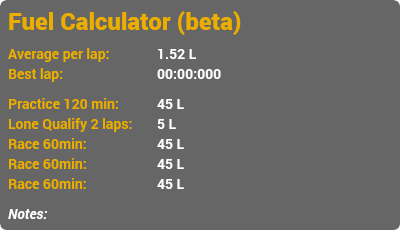
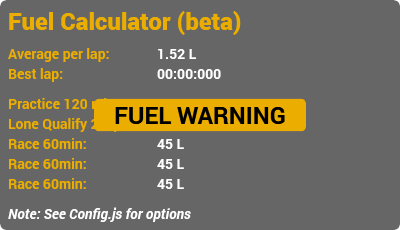
Added a pre-race Fuel Warning when setup is under-fueled

Changed region(s): [[0.21, 0.4261, 0.78, 0.5783], [0.09, 0.913, 0.48, 0.9739]]

diff --git a/Overlays/benofficial2 - iRacing Fuel Calculator/JavascriptExtensions/FuelCalc.js b/Overlays/benofficial2 - iRacing Fuel Calculator/JavascriptExtensions/FuelCalc.js
@@ -18,6 +18,7 @@
 
 const g_literToKg = 0.74380169246343626270662456402943;
 const g_DebugLitersPerLap = -1;
+const g_DebugBestLapTime = ""
 
 function getSessionDetails(sessionIdx)
 {
@@ -65,12 +66,17 @@ function getFuelNeeded(sessionIdx)
         stops = '(' + info.stops + ' stops)';
     }
 
-    const displayInfo = getFuelDisplayInfo();
-    return (info.fuelNeeded * displayInfo.convert).toFixed(1) + ' ' + displayInfo.unit + ' ' + stops;
+    const setupFuelInfo = getSetupFuelInfo();
+    return (info.fuelNeeded * setupFuelInfo.convert).toFixed(1) + ' ' + setupFuelInfo.unit + ' ' + stops;
 }
 
 function getBestLapTime()
 {
+    if (g_DebugBestLapTime != "") 
+    {
+        return g_DebugBestLapTime;
+    }
+
     if (!isGameIRacing() || !isGameRunning() || NewRawData() == null)
     {
         return "00:00.000";
@@ -108,6 +114,11 @@ function getBestLapTime()
 
 function getBestLapTimeInClass()
 {
+    if (g_DebugBestLapTime != "") 
+    {
+        return g_DebugBestLapTime;
+    }
+
     if (!isGameIRacing() || !isGameRunning() || NewRawData() == null)
     {
         return "00:00.000";
@@ -166,8 +177,7 @@ function getFuelInfo(sessionIdx)
             stops: 0,                   // Number of stops required in session
             sessionType: "Invalid",     // Session type string
             sessionLaps: 0,             // -1 is unlimited
-            sessionTime: 0,             // Session time limit in seconds
-            sessionBestLapTime: 0
+            sessionTime: 0              // Session time limit in seconds
         };
 
     if (NewRawData() == null)
@@ -206,9 +216,8 @@ function getFuelInfo(sessionIdx)
         return info;
     }
 
-    info.sessionBestLapTime = $prop('variable.bestLapTime');
-    const bestLapTime = new Date("00:" + info.sessionBestLapTime);
-    const bestLapTimeSecs = bestLapTime.getMinutes() * 60 + bestLapTime.getSeconds();
+    const bestLapTime = new Date("00:" + $prop('variable.bestLapTime'));
+    const bestLapTimeSecs = bestLapTime.getMinutes() * 60 + bestLapTime.getSeconds() + bestLapTime.getMilliseconds() / 1000;
 
     let minTimeForLaps = -1;
     if (info.sessionLaps > 0 && bestLapTimeSecs > 0)
@@ -339,17 +348,50 @@ function getFuelLitersPerLap()
     return 0;
 }
 
-function getFuelDisplayInfo()
+function getSetupFuelInfo()
 {
     let info = {
-        unit: "L",
-        convert: 1
+        fuel: 0,    // Amount of fuel specified in setup, 0 if not found
+        unit: "L",  // Display units, "L" or "Kg"
+        convert: 1  // Multiplier to convert from liters, 1 if already in liters
     };
 
-    const fuelLevel = String($prop('GameRawData.SessionData.CarSetup.Chassis.Rear.FuelLevel'));
-    if (fuelLevel.indexOf("Kg") != -1)
+    // Must handle all the different ways fuel is defined in car setups
+    // Because the telemetry fuel value is 0 when not in-car
+    let fuelLevel = null;
+    fuelLevelProperties = ['GameRawData.SessionData.CarSetup.Suspension.Rear.FuelLevel',
+        'GameRawData.SessionData.CarSetup.Chassis.Rear.FuelLevel',
+        'GameRawData.SessionData.CarSetup.Chassis.Front.FuelLevel',
+        'GameRawData.SessionData.CarSetup.BrakesDriveUnit.Fuel.FuelLevel',
+        'GameRawData.SessionData.CarSetup.Chassis.BrakesInCarMisc.FuelLevel',
+        'GameRawData.SessionData.CarSetup.InCarSystems.Fuel.FuelLevel',
+        'GameRawData.SessionData.CarSetup.Systems.Fuel.FuelLevel',
+        'GameRawData.SessionData.CarSetup.TiresFuel.Fuel.FuelLevel',
+        'GameRawData.SessionData.CarSetup.VehicleSystems.Fuel.FuelLevel'
+    ];
+
+    for (let i = 0; i < fuelLevelProperties.length; i++)
     {
+        fuelLevel = $prop(fuelLevelProperties[i]);
+        if (fuelLevel != null)
+        {
+            break;
+        }
+    }
+    
+    if (fuelLevel.indexOf("L") != -1)
+    {
+        info.fuel = Number(String(fuelLevel).slice(0, -2));
+        info.unit = "L";
+        info.convert = 1;
+    }
+    else if (fuelLevel.indexOf("Kg") != -1)
+    {
+        info.fuel = Number(String(fuelLevel).slice(0, -3));
         info.unit = "Kg";
+        
+        // The value iRacing give is imprecise
+        //info.convert = $prop('GameRawData.SessionData.DriverInfo.DriverCarFuelKgPerLtr');
         info.convert = g_literToKg;
     }
 
@@ -390,4 +432,33 @@ function getTrackInfo()
     }
 
     return info;
+}
+
+function showPreRaceFuelWarning()
+{
+    const garageVisible = $prop('GameRawData.Telemetry.IsGarageVisible');
+    const sessionState = $prop('DataCorePlugin.GameRawData.Telemetry.SessionState');
+    const raceStarted = sessionState >= 4;
+
+    if (!isGameIRacing() || !isGameRunning() || !isRace() || !g_EnablePreRaceFuelWarning || garageVisible || raceStarted)
+    {
+        return false;
+    }
+
+    const setupFuelInfo = getSetupFuelInfo();
+    const sessionNum = NewRawData().Telemetry["SessionNum"];
+    const fuelInfo = getFuelInfo(sessionNum);
+
+    if (fuelInfo.fuelNeeded <= 0 || setupFuelInfo.fuel <= 0)
+    {
+        return false;
+    }
+
+    const errorMargin = 0.05;
+    if ((setupFuelInfo.fuel / setupFuelInfo.convert + errorMargin) >= fuelInfo.fuelNeeded)
+    {
+        return false;
+    }
+
+    return true;
 }

diff --git a/Overlays/benofficial2 - iRacing Fuel Calculator/JavascriptExtensions/Common.js b/Overlays/benofficial2 - iRacing Fuel Calculator/JavascriptExtensions/Common.js
@@ -31,6 +31,12 @@ function isInvalidTime(time)
     return time == null || time == '00:00:00' || time == '00:00.000';
 }
 
+function isRace()
+{
+    const sessionTypeName = $prop('DataCorePlugin.GameData.SessionTypeName');
+    return String(sessionTypeName).indexOf('Race') != -1;   
+}
+
 function isOvalCategory()
 {
     var category = $prop('DataCorePlugin.GameRawData.SessionData.WeekendInfo.Category');

diff --git a/Overlays/benofficial2 - iRacing Fuel Calculator/JavascriptExtensions/Config.js b/Overlays/benofficial2 - iRacing Fuel Calculator/JavascriptExtensions/Config.js
@@ -30,3 +30,6 @@ const g_ShortParadeLapPct = 0.50;
 // Use the current session's fastest time from the player for fuel calculations.
 // Default to false, because can cause under fueling when significantly off-pace.
 const g_UsePlayersFastestTime = false;
+
+// Enable a fuel warning before the race when under-fueled.
+const g_EnablePreRaceFuelWarning = true;
